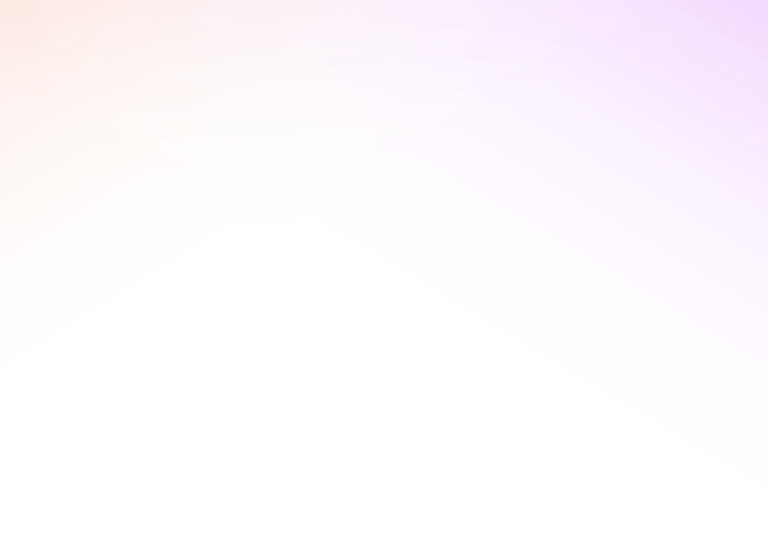
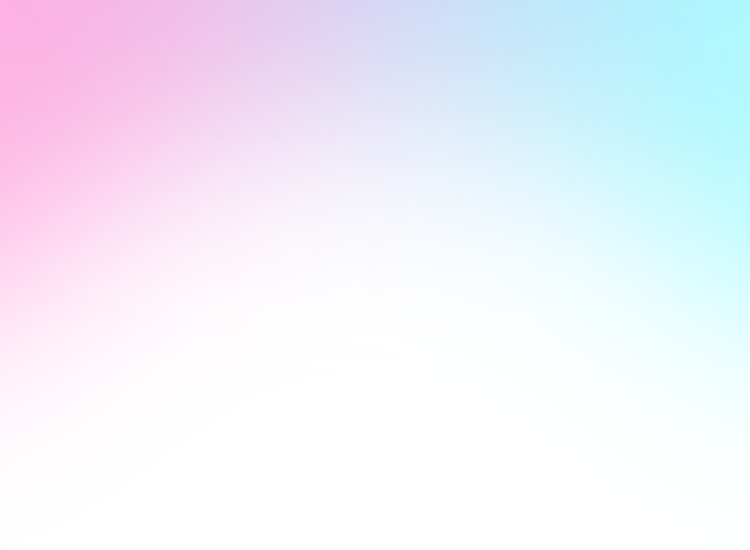
update auth card

diff --git a/src/app/(auth)/components/AuthForm.module.css b/src/app/(auth)/components/AuthForm.module.css
@@ -6,19 +6,25 @@
 }
 
 .authFormHeader {
-  text-align: left;
+  display: flex;
+  justify-content: center;
+  align-items: center;
+  flex-direction: column;
+  text-align: center;
 }
 
 .authFormTitle {
   color: #1c1c1c;
-  font-size: 22px;
+  font-size: 18px;
   margin-bottom: 8px;
   font-weight: 600;
 }
 
 .authFormDescription {
   color: #7a7a7a;
-  font-size: 16px;
+  font-size: 15px;
+  font-weight: 500;
+  max-width: 300px;
 }
 
 .authForm {

diff --git a/src/app/(auth)/(access)/sign-in/login-form.tsx b/src/app/(auth)/(access)/sign-in/login-form.tsx
@@ -76,7 +76,7 @@ export function LoginForm() {
   return (
     <AuthForm
       title="Iniciar sesión en Alino"
-      description="Accede a tu cuenta alino."
+      description="Tu organización en un solo lugar. Fácil, rápido y sin complicaciones."
       fields={[
         { name: "email", type: "email", placeholder: "Email" },
         { name: "password", type: "password", placeholder: "Contraseña" },

diff --git a/src/app/(auth)/(access)/layout.tsx b/src/app/(auth)/(access)/layout.tsx
@@ -58,8 +58,9 @@ export default async function AuthLayout({
               left: "0",
               width: "100%",
               height: "auto",
-              opacity: 1,
-              transform: "scaleX(-1)",
+              opacity: 0.5,
+              filter: "saturate(200%)",
+              transform: "translateY(-40px)",
               pointerEvents: "none",
             }}
           />

diff --git a/src/app/(auth)/components/auth-form.tsx b/src/app/(auth)/components/auth-form.tsx
@@ -40,7 +40,6 @@ export function AuthForm({
   isPending,
   submitButtonText,
   showOAuth = false,
-  footerLinks,
 }: AuthFormProps) {
   const [oauthPending, setOauthPending] = useState<boolean>(false);
   return (

diff --git a/src/app/(auth)/(access)/auth.module.css b/src/app/(auth)/(access)/auth.module.css
@@ -9,7 +9,7 @@
   background-repeat: repeat;
   background-position: top left;
   background-size: 200px;
-  background-color: rgb(240, 240, 240);
+  background-color: rgb(245, 245, 245);
 }
 
 .contentContainer {
